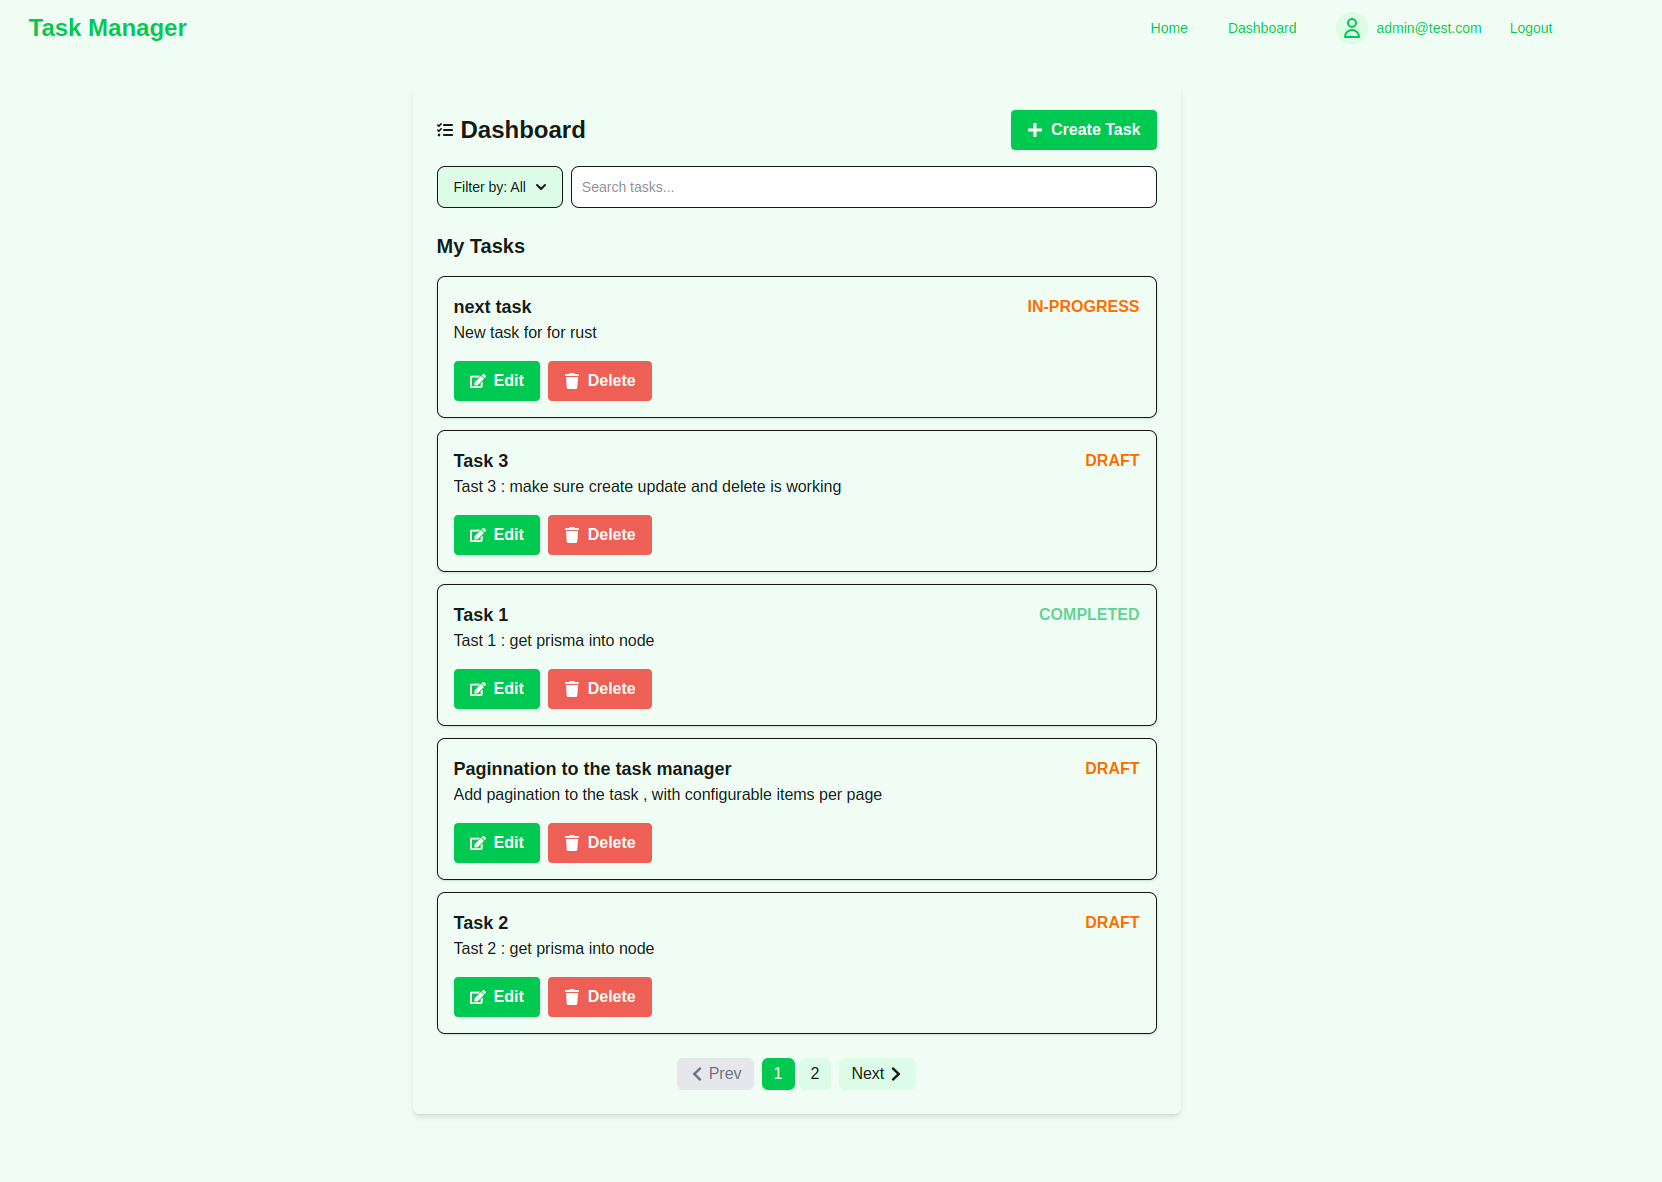
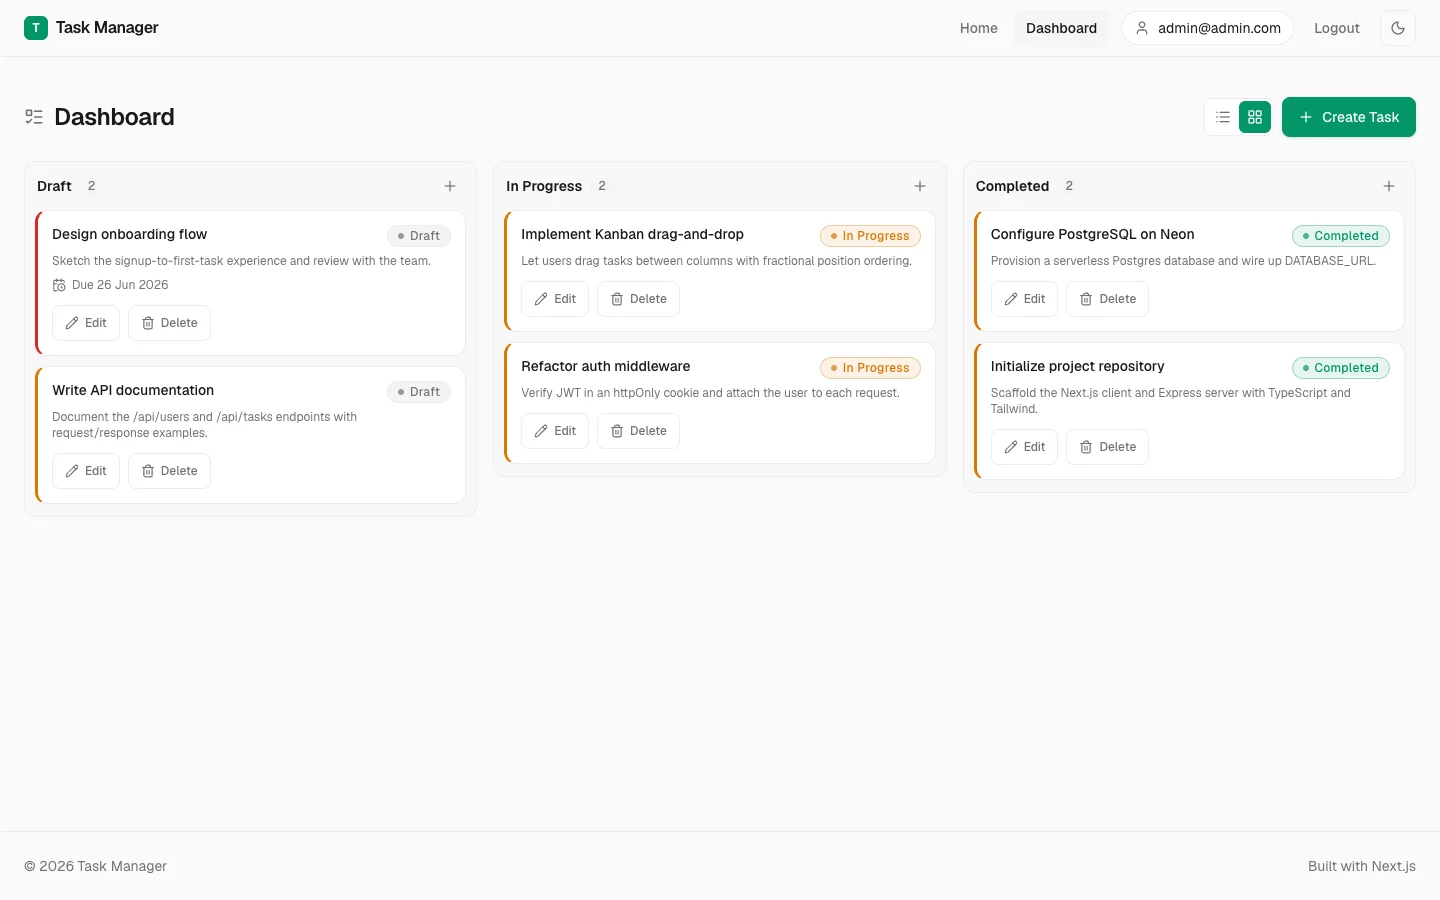
docs(readme): refresh screenshots for redesigned UI + add deploy buttons
- Recapture all screenshots from the live app (Kanban board, list/filters,
  auth pages, create/edit modals) with realistic task data
- Add Deploy to Vercel + Neon Postgres buttons and a live-demo link
- Re-caption the screenshot table for the new UI

diff --git a/README.md b/README.md
@@ -2,6 +2,22 @@
 
 Full-stack task manager: JWT auth + task CRUD with role-based access (ADMIN/USER).
 
+🔗 **Live demo:** https://task-manager-phi-eight-69.vercel.app
+
+## Deploy your own
+
+[![Deploy with Vercel](https://vercel.com/button)](https://vercel.com/new/clone?repository-url=https://github.com/Akash-Bhavsar/task-manager&root-directory=client&env=NEXT_PUBLIC_API_URL&envDescription=Base%20URL%20of%20the%20API%20server&project-name=task-manager&repository-name=task-manager)
+[![Create a Neon Postgres DB](https://img.shields.io/badge/Neon-Create%20Postgres-00E599?logo=postgresql&logoColor=white)](https://console.neon.tech/signup)
+
+1. **Neon** → create a free serverless Postgres and copy its `DATABASE_URL`.
+2. **Vercel** → deploys the Next.js client (`client/`); set `NEXT_PUBLIC_API_URL`
+   to your API URL.
+3. **API** → deploy `server/` (Docker runtime, `server/Dockerfile`) on Render and
+   set `DATABASE_URL`, `JWT_SECRET`, `CLIENT_ORIGIN`.
+
+See the [`## Deploy`](#deploy) section and `terraform/README.md` for the full,
+Terraform-driven setup.
+
 ## Stack
 
 - **Client** (`client/`) — Next.js 16, React 19, TypeScript, Tailwind. Auth via httpOnly cookie.
@@ -62,12 +78,12 @@ Git-native CD — push to `main` → Vercel (client) + Render (API) rebuild; Neo
 | | |
 |---|---|
 | Homepage | ![Homepage](/public/Homepage.webp) |
-| Dashboard | ![Dashboard](/public/Dashboard.webp) |
+| Kanban board | ![Kanban board](/public/Dashboard.webp) |
+| List view & filters | ![List view and filters](/public/Filters.webp) |
 | Login | ![Login](/public/LoginPage.webp) |
 | Signup | ![Signup](/public/SignupPage.webp) |
 | Create task | ![Create Task](/public/CreateTask.webp) |
 | Edit task | ![Edit Task](/public/EditTask.webp) |
-| Filters | ![Filters](/public/Filters.webp) |
 
 ## License
 
